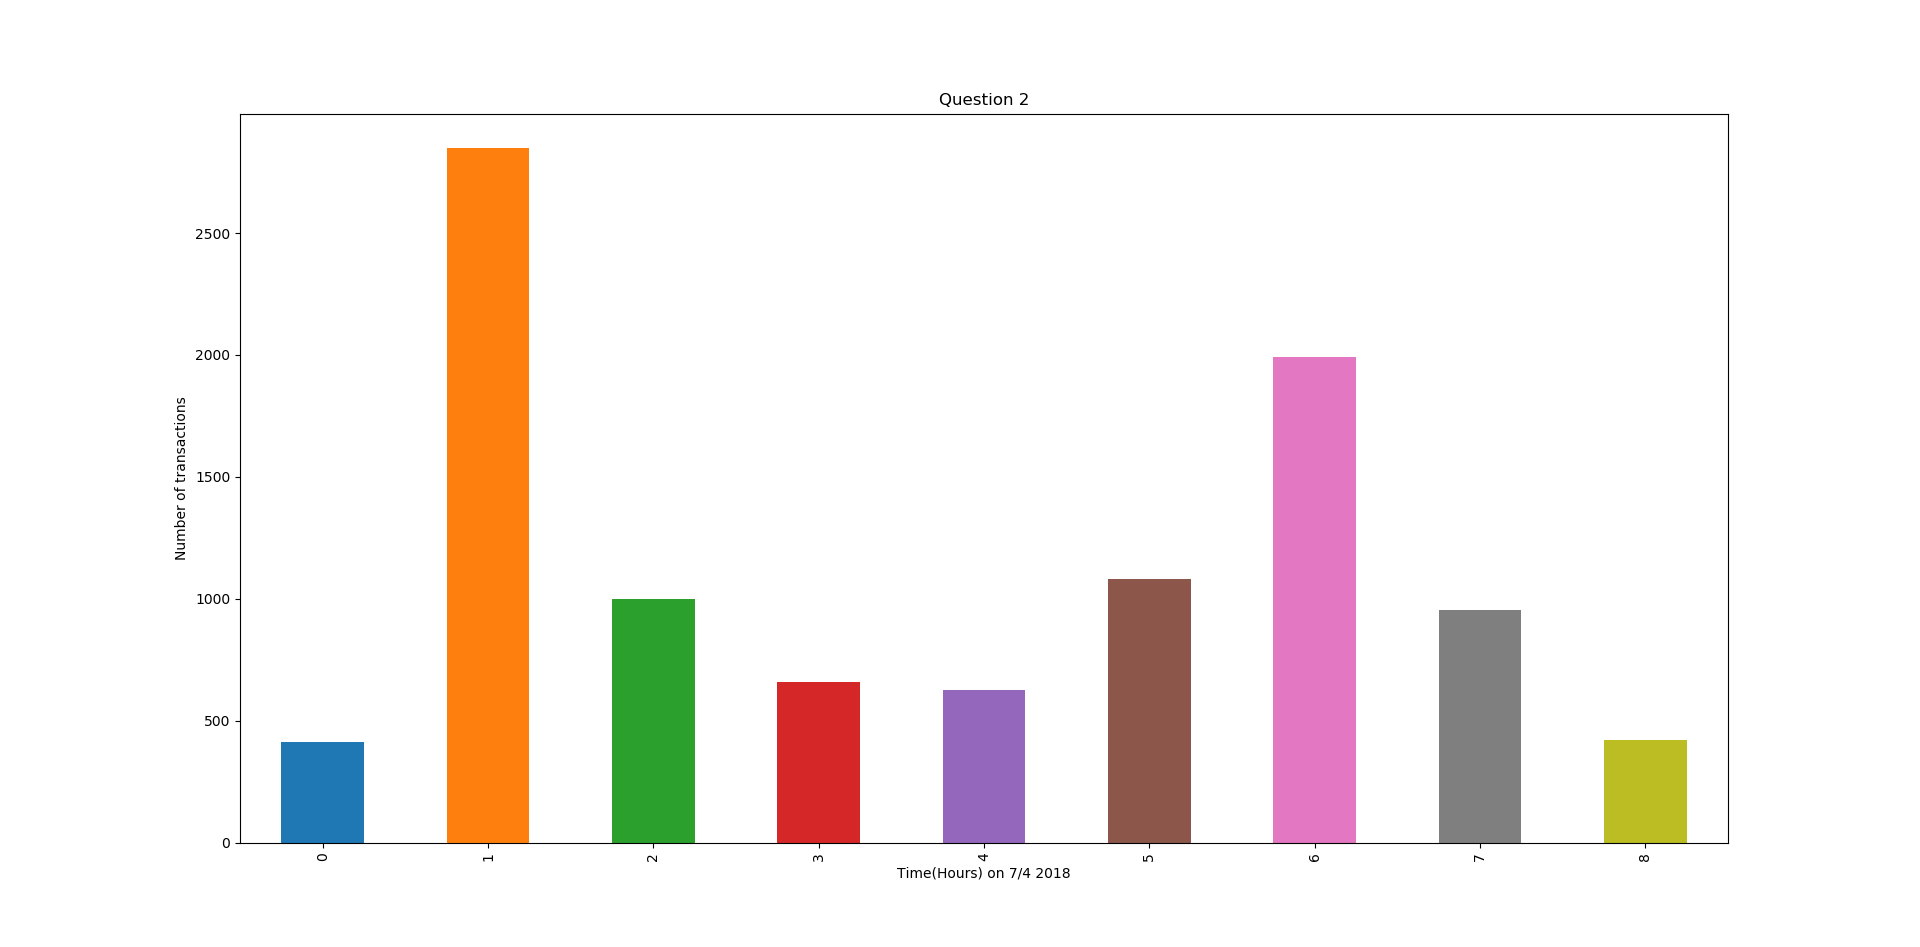
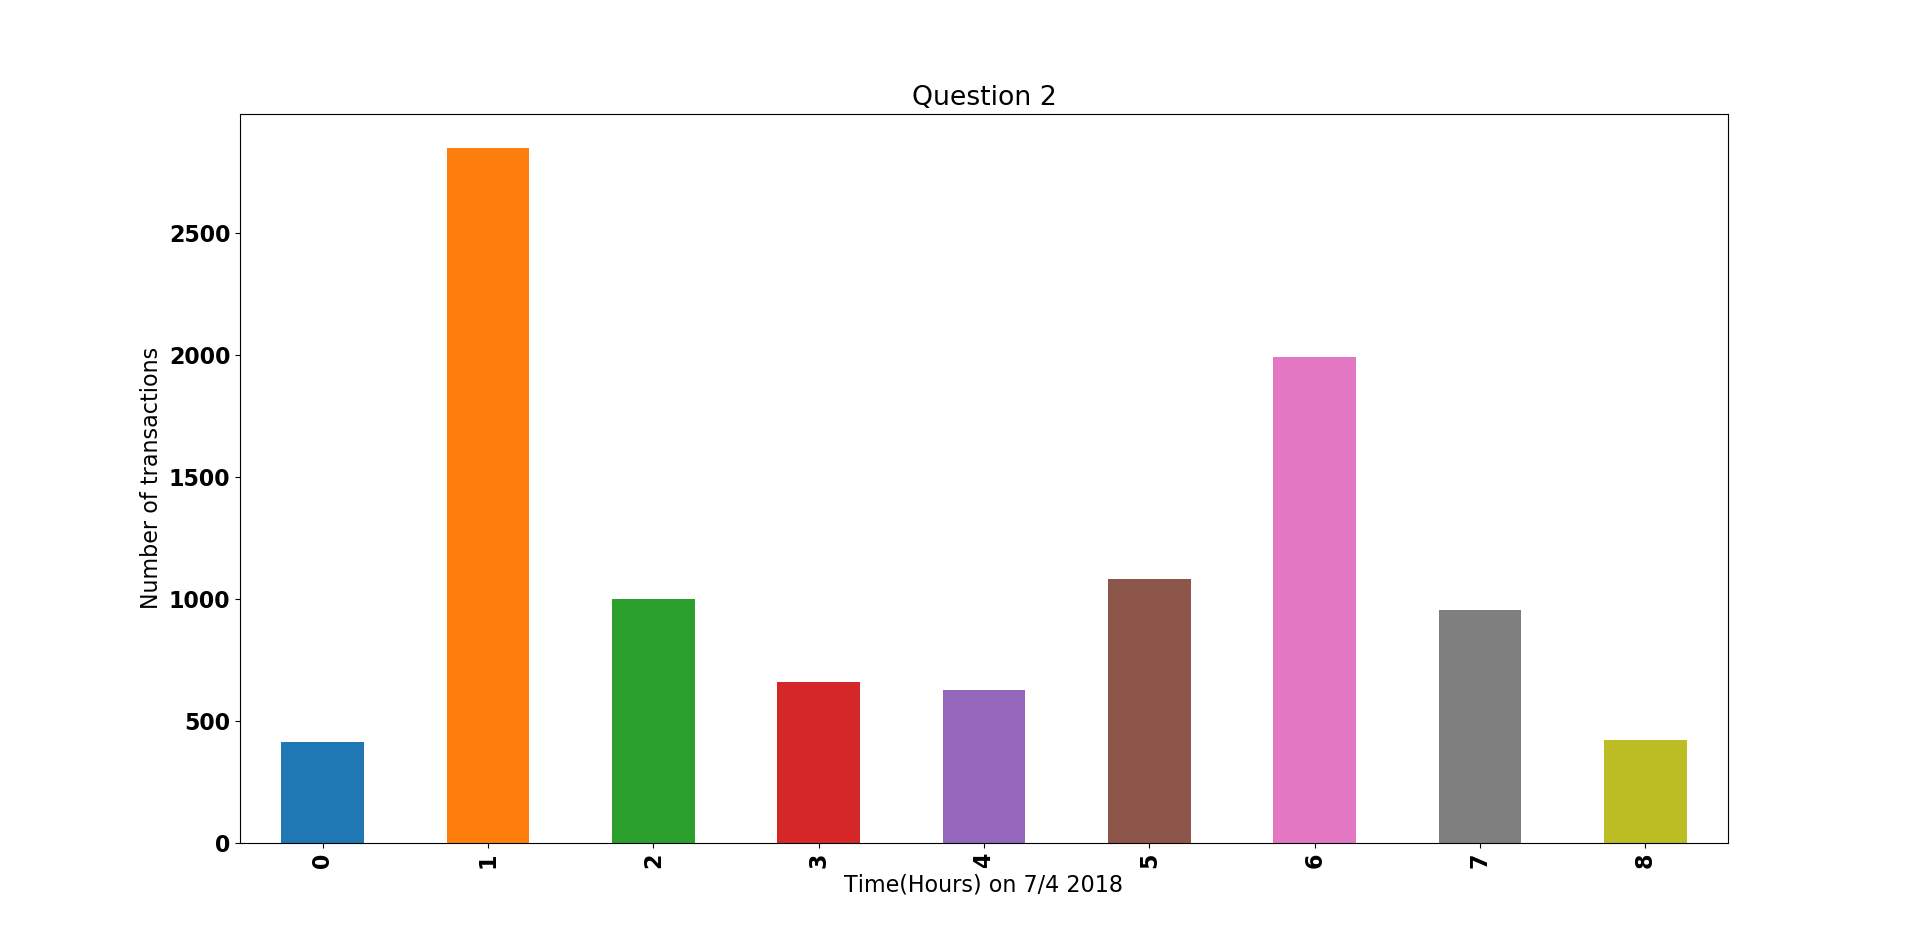
added new image2

diff --git a/Assignment7/run.py b/Assignment7/run.py
@@ -1,13 +1,19 @@
 import csv
 import pandas as pd
 from collections import Counter
-
+import matplotlib
 import matplotlib.pyplot as plt
 
 import datetime as dt
 
 file_name = 'info.csv'
 df = pd.read_csv(file_name, sep=';')
+
+font = {'family' : 'normal',
+        'weight' : 'bold',
+        'size'   : 16}
+
+matplotlib.rc('font', **font)
 
 def question1():
     largest_trans = 0
